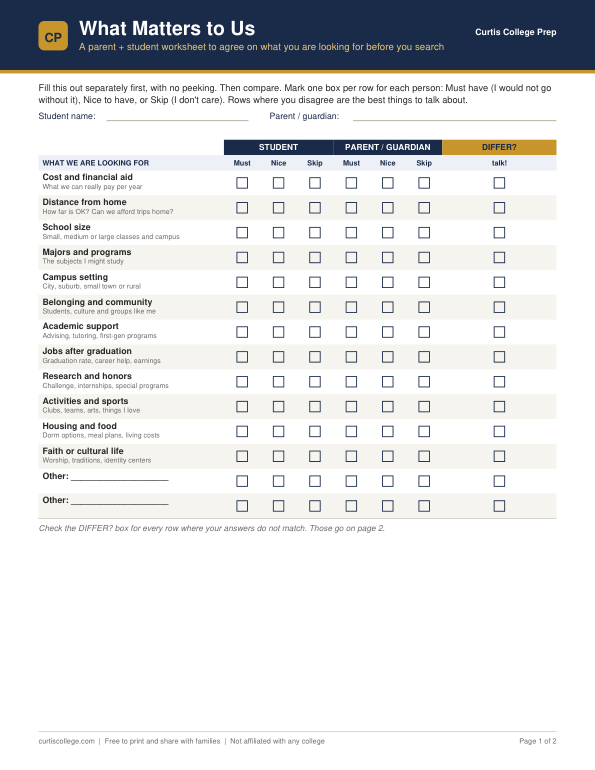
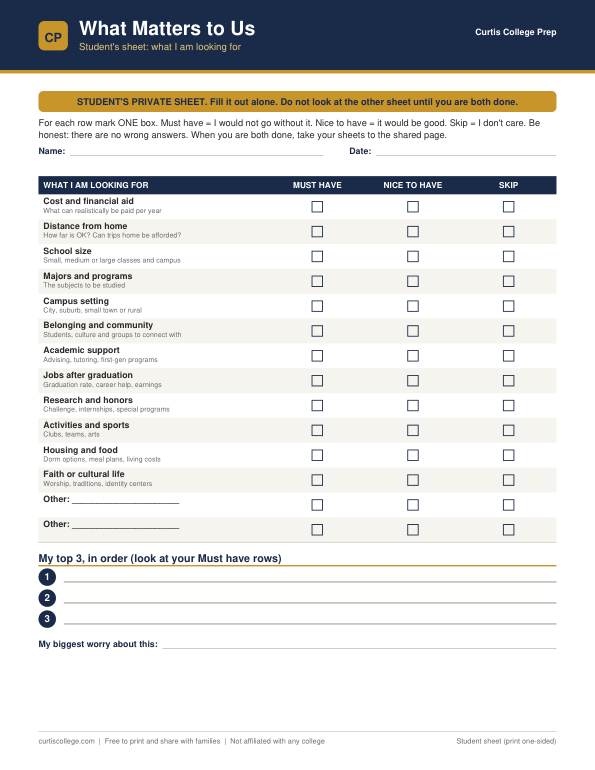
Split What Matters to Us into student, parent and shared pages
The worksheet is now three pages: a private student sheet, a private
parent/guardian sheet (each one-sided), and a shared page for comparing
answers, picking a top 5, and next steps. Updated the Free Worksheets
card and preview image, and refreshed the other two free PDFs.

diff --git a/worksheets.html b/worksheets.html
@@ -35,8 +35,8 @@
     <div class="panel" style="margin:0; display:flex; flex-direction:column;">
       <a href="worksheets/what-matters-to-us.pdf" target="_blank" rel="noopener"><img src="worksheets/what-matters-to-us.png" alt="Preview of the What Matters to Us worksheet" loading="lazy" style="width:100%; height:auto; border:1px solid var(--border); border-radius:6px;"></a>
       <h2 style="margin-top:14px;">What Matters to Us</h2>
-      <p style="color:var(--muted); font-size:0.85rem; margin:0 0 8px;">2 pages · Parent + student</p>
-      <p style="flex:1;">Before you search, each of you marks what you must have, would like, or can skip across 12 things like cost, distance, size and support. Then compare, find where you differ, and pick your top 5.</p>
+      <p style="color:var(--muted); font-size:0.85rem; margin:0 0 8px;">3 pages · Student sheet, parent sheet, shared page</p>
+      <p style="flex:1;">Before you search, the student and the parent or guardian each fill out their own private sheet, marking what they must have, would like, or can skip across 12 things like cost, distance, size and support. Then a shared page helps you compare, talk through where you differ, and pick your top 5.</p>
       <a class="btn btn-navy" href="worksheets/what-matters-to-us.pdf" download>Download free PDF</a>
     </div>
     <div class="panel" style="margin:0; display:flex; flex-direction:column;">
